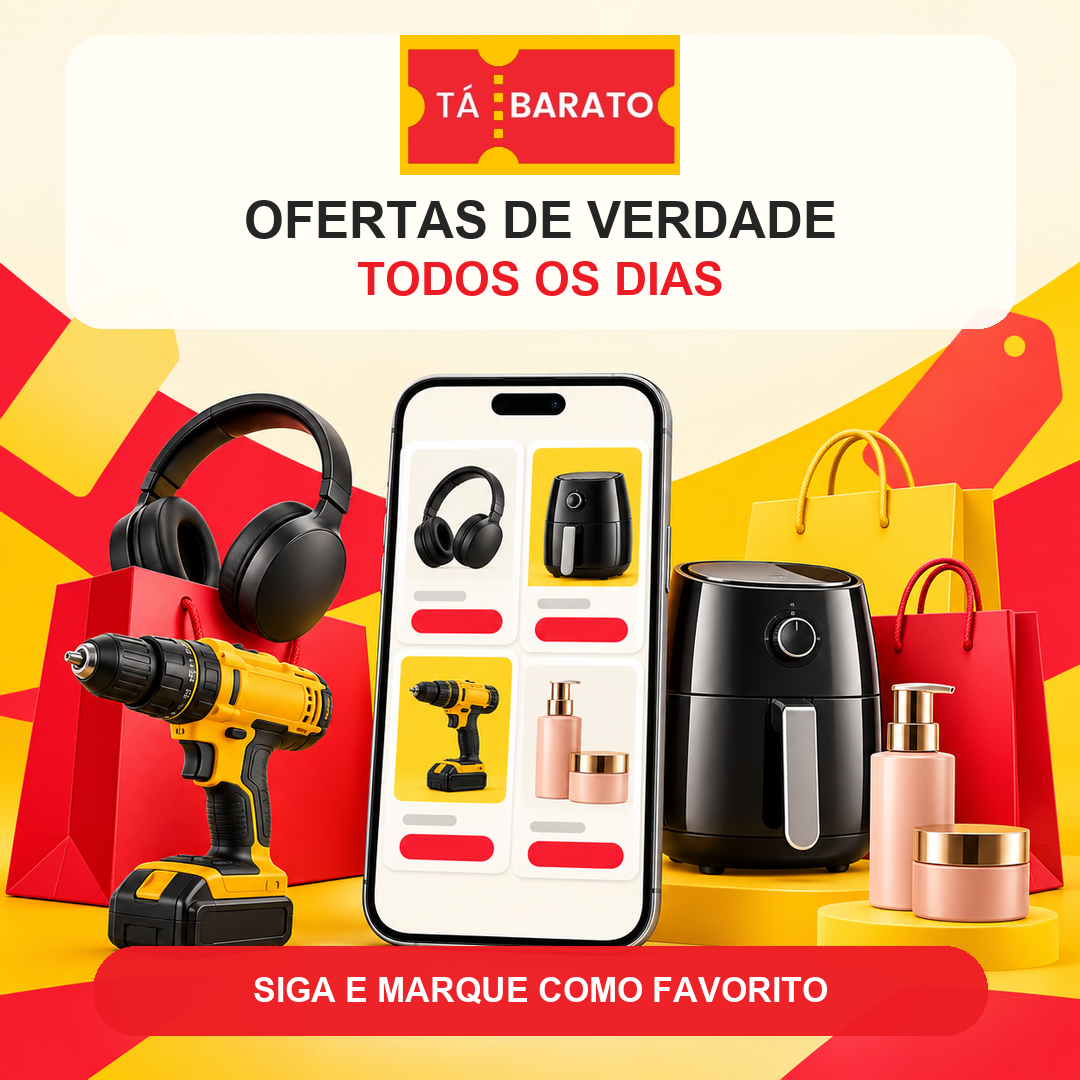
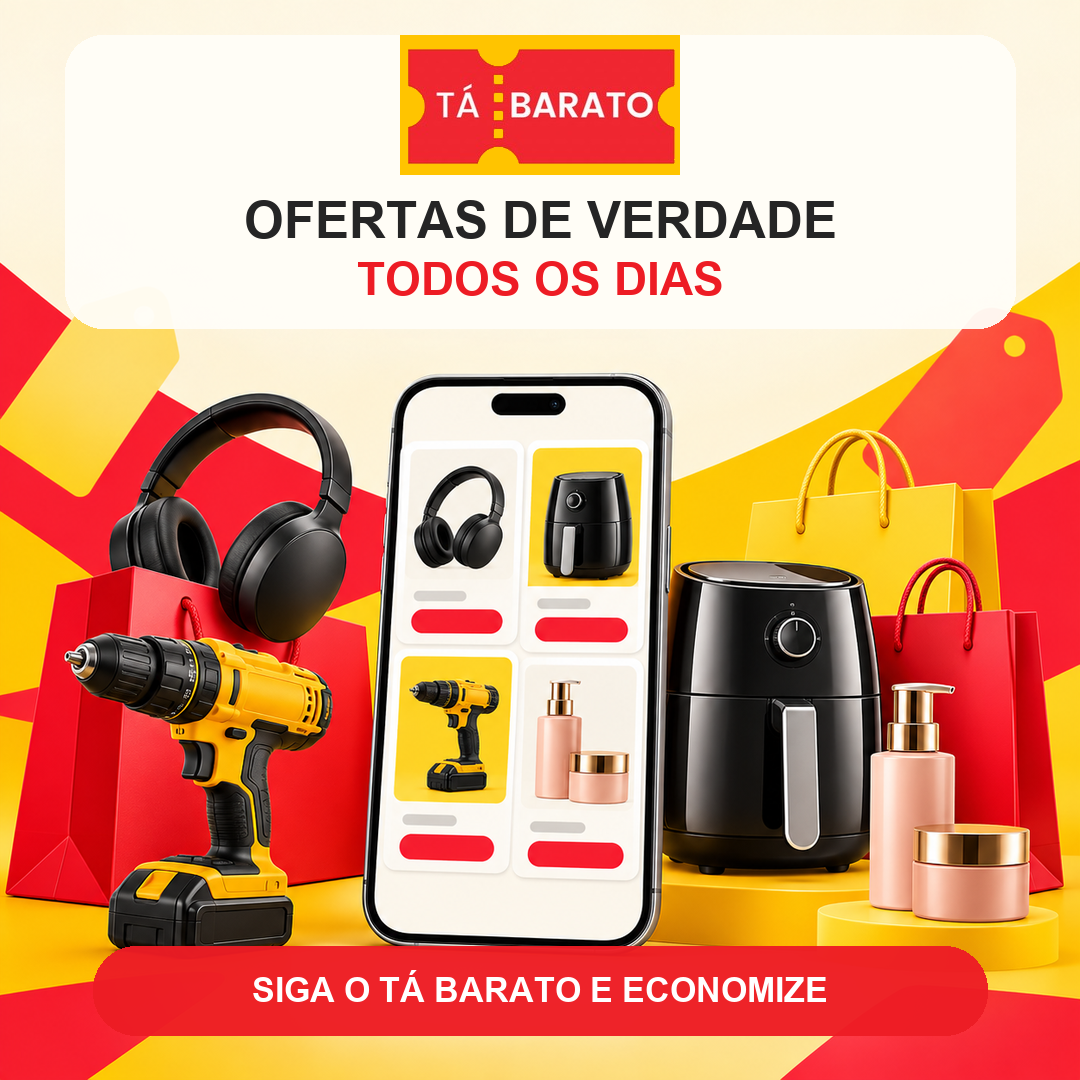
refactor: melhora chamada da campanha

Changed region(s): [[0.3361, 0.8861, 0.6722, 0.9472], [0.7028, 0.8861, 0.7639, 0.9472], [0.2444, 0.8861, 0.275, 0.9472]]

diff --git a/marketing/build_campaign.py b/marketing/build_campaign.py
@@ -53,7 +53,7 @@ def montar():
 
     draw.rounded_rectangle((93, 946, 987, 1035), radius=43,
                            fill=(237, 28, 36, 246))
-    draw.text((540, 990), "SIGA E MARQUE COMO FAVORITO", font=fonte(34),
+    draw.text((540, 990), "SIGA O TÁ BARATO E ECONOMIZE", font=fonte(34),
               fill="white", anchor="mm")
     imagem.save(SAIDA, format="PNG", optimize=True)
 

diff --git a/marketing/campanha-seguidores-facebook.md b/marketing/campanha-seguidores-facebook.md
@@ -11,9 +11,13 @@ O Tá Barato acompanha ofertas para você encontrar oportunidades sem perder tem
 🎟 cupons e condições em destaque  
 📲 atualizações no site, Facebook, Instagram e Telegram
 
-Siga a página e marque o Tá Barato como **Favorito** para aumentar a chance de receber as próximas ofertas no seu feed.
+Siga o Tá Barato e acompanhe novas oportunidades todos os dias.
 
-👉 Acesse: https://canaltabarato.com.br/?utm_source=facebook&utm_medium=paid_social&utm_campaign=seguidores_ta_barato
+🌐 Site: https://canaltabarato.com.br/?utm_source=facebook&utm_medium=paid_social&utm_campaign=seguidores_ta_barato
+📘 Facebook: https://www.facebook.com/111695315138976
+📸 Instagram: https://www.instagram.com/ofertascanaltabarato/
+📲 Telegram: https://t.me/CanalTaBarato
+🦋 Bluesky: https://bsky.app/profile/canaltabarato.com.br
 
 Preços e estoque podem mudar. Alguns links são de afiliado, sem custo adicional para você.
 
